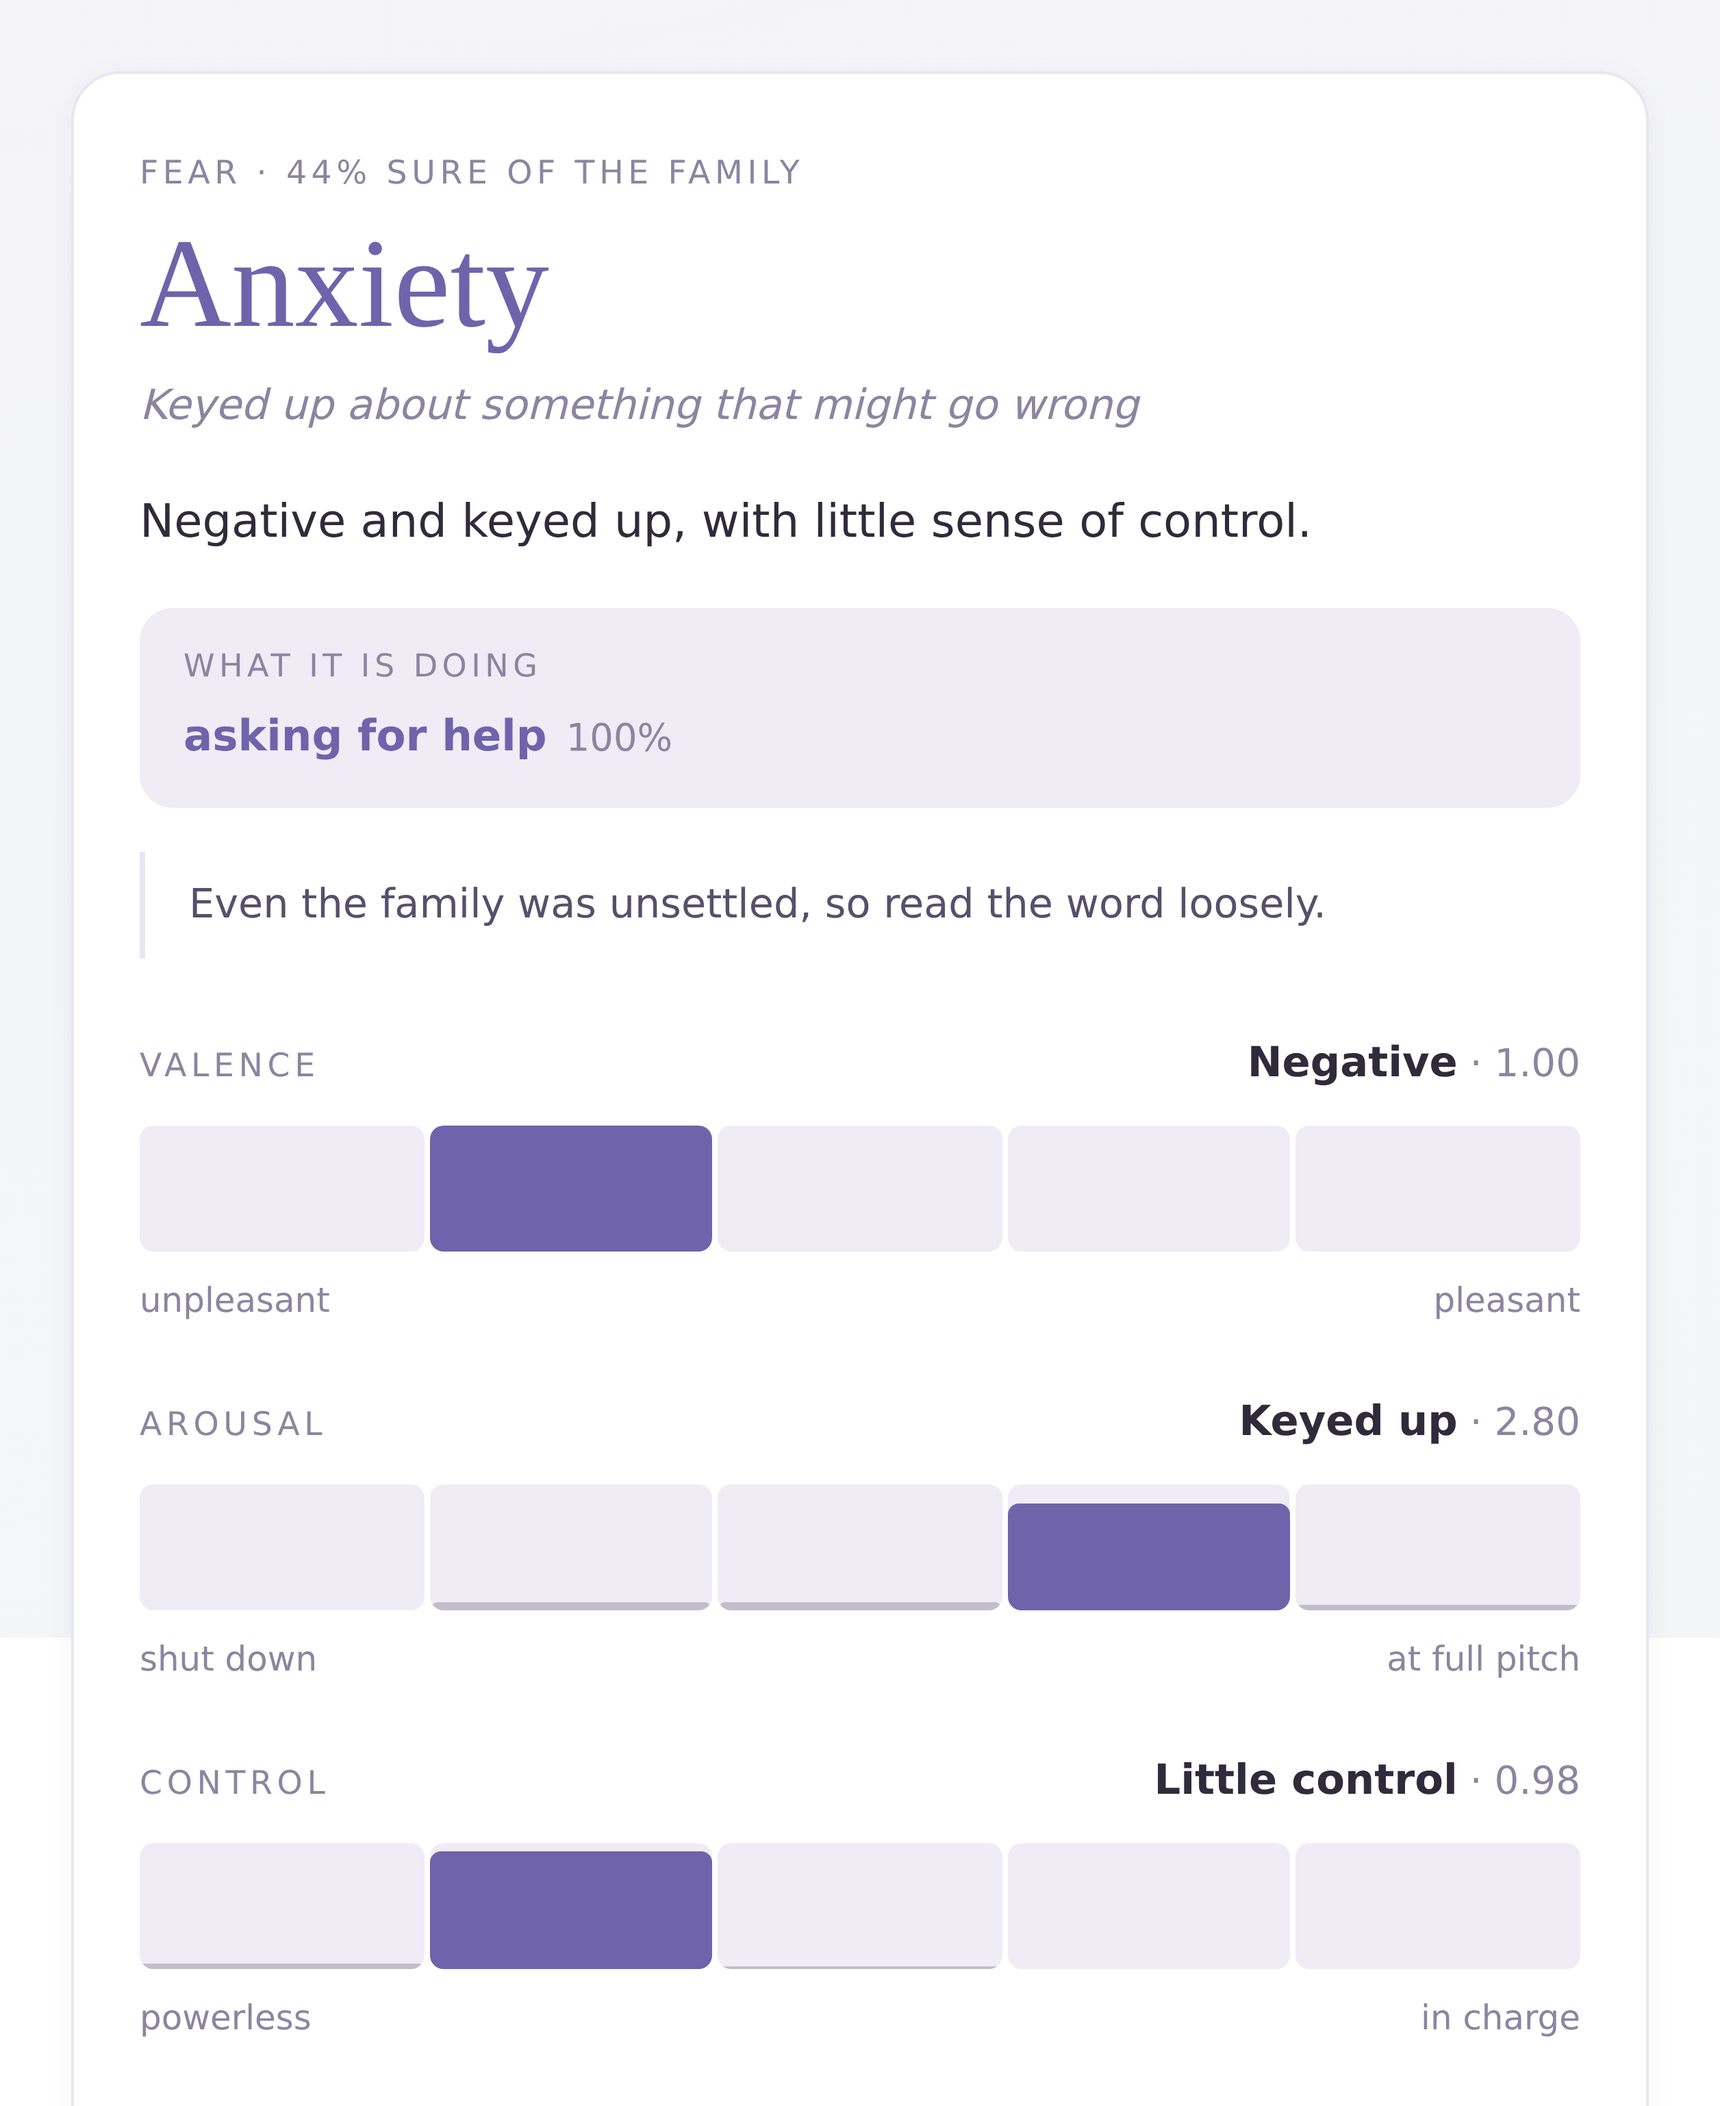
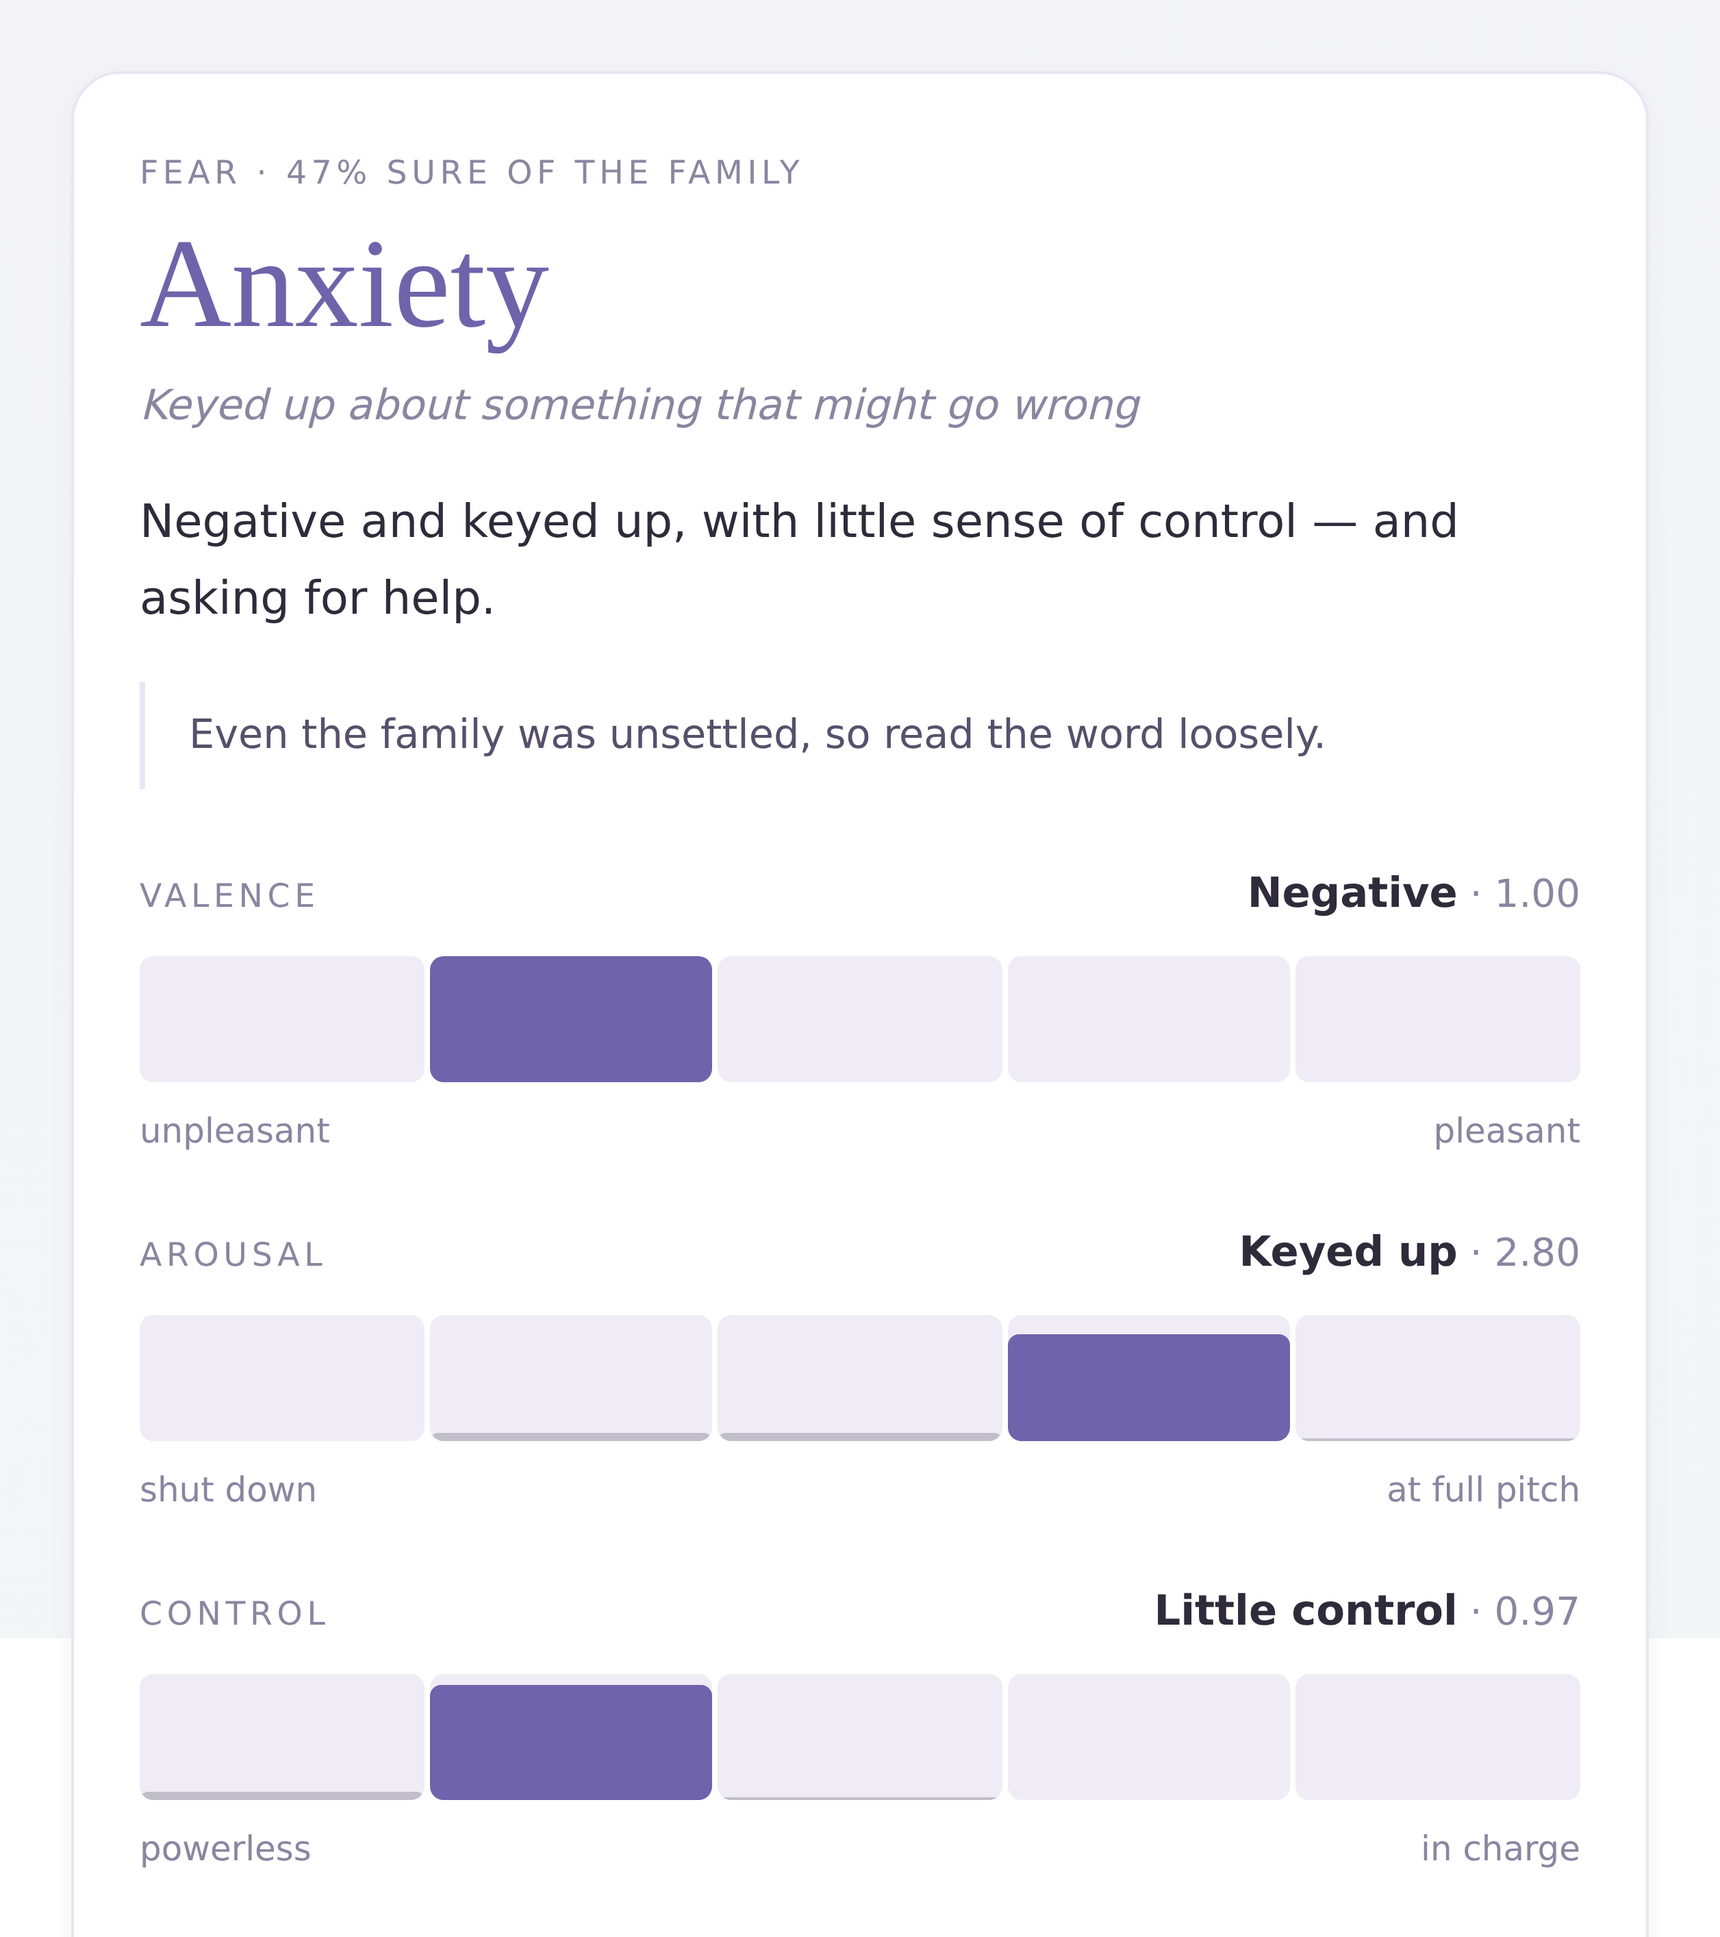
waif: drop the two footnote Nouls, and one description line instead of two
`ahead` and `restrained` are gone. Neither changed the word, the sentence or
a meter — each could only ever append one line — and a question whose whole
effect is an occasional footnote costs a reader more attention than it
returns. That leaves one Noul, the gate that decides whether there is
anything to read at all.

The intent no longer sits in its own block beside the axes' sentence, where
it read as a second verdict about the same text. It finishes that sentence:

  Negative and keyed up, with little sense of control — and asking for help.

So the reading is a word, a gloss, one line, and the meters. Seven questions
now, three jobs, and the table in "How it works" says which does which.

Stage one drops to ~1,250 input tokens from ~1,400.

Claude-Session: https://claude.ai/code/session_01Sa5169APZKZrqTZgz6NTVY

diff --git a/frontend/src/lib/waif.ts b/frontend/src/lib/waif.ts
@@ -119,45 +119,6 @@ export const INTENTS = {
 } as const;
 export type IntentId = keyof typeof INTENTS;
 
-/**
- * The two Nouls that survived a check on whether they were saying anything.
- *
- * Measured over the 24-text probe set: `mixed` — *is more than one feeling
- * present* — came back at or above 0.6 on twenty-one of twenty-four texts,
- * which is not a signal, it is a property of writing. It was cut, and the
- * thing it was reaching for is now read off the shade Choice's own spread: a
- * feeling that sits between two words shows up as a split distribution, which
- * is a better answer to the same question and costs nothing extra.
- *
- * These two both fired on some inputs and not others, and both change what a
- * reader should take from the reading.
- */
-const SIGNALS = {
-  ahead: {
-    instructions:
-      "The feeling in `text` is about something that has not happened yet, rather than about something that already has or is happening now.",
-    criteria: {
-      true: "Directed at what might come — a threat, a hope, an outcome still open",
-      false: "Directed at what has already happened or is happening now",
-    },
-    note: "It is about something that has not happened yet.",
-  },
-  restrained: {
-    instructions:
-      "The feeling in `text` is being held back or understated relative to what is actually being described.",
-    criteria: {
-      true: "The events described are far heavier than the way they are told",
-      false: "The telling matches the weight of what happened",
-    },
-    note: "And it is being held back — what is described is heavier than how it is said.",
-  },
-} as const;
-
-export type SignalId = keyof typeof SIGNALS;
-const SIGNAL_IDS = ["ahead", "restrained"] as const;
-
-/** A Noul at or above this reads as *present* for the purpose of the sentence. */
-const PRESENT = 0.6;
 /** Below this, nothing was said that could be read at all. */
 const IS_WRITING = 0.5;
 /** Below this, an axis did not settle and must not be stated as if it had. */
@@ -199,12 +160,6 @@ export const QUESTIONS = {
       (Object.keys(INTENTS) as IntentId[]).map((k) => [k, INTENTS[k].gloss]),
     ),
   },
-  ...Object.fromEntries(
-    SIGNAL_IDS.map((id) => [
-      id,
-      { type: "noul", instructions: SIGNALS[id].instructions, criteria: SIGNALS[id].criteria },
-    ]),
-  ),
 } as const;
 
 /** Stage two: which shade, given the family stage one chose. */
@@ -228,7 +183,7 @@ export const SPEC = {
     id,
     label: AXES[id].label,
     question: AXES[id].question,
-    role: "Describes the feeling and draws the meter. It does not pick the word.",
+    role: "Starts the sentence and draws the meter. It does not pick the word.",
     options: AXES[id].levels.map((text, i) => ({ key: String(i), text })),
   })),
   family: {
@@ -242,7 +197,7 @@ export const SPEC = {
     id: "intent",
     label: "Intent",
     question: QUESTIONS.intent.instructions,
-    role: "Reported on its own line. It never touches the feeling.",
+    role: "Finishes the sentence. It does not affect the word.",
     options: (Object.keys(INTENTS) as IntentId[]).map((k) => ({
       key: k,
       text: `${INTENTS[k].label} — ${INTENTS[k].gloss}`,
@@ -264,18 +219,6 @@ export const SPEC = {
       label: "Is this writing at all",
       question: QUESTIONS.is_writing.instructions,
       role: "A gate. Below 0.50 nothing is scored and the second call is never spent.",
-    },
-    {
-      id: "ahead",
-      label: "About something not yet happened",
-      question: SIGNALS.ahead.instructions,
-      role: "Adds one line to the reading when it passes 0.60. Nothing else.",
-    },
-    {
-      id: "restrained",
-      label: "Being held back",
-      question: SIGNALS.restrained.instructions,
-      role: "Adds one line to the reading when it passes 0.60. Nothing else.",
     },
   ],
 } as const;
@@ -314,7 +257,6 @@ export interface Reading {
   /** One speakable paragraph: the whole reading in a form that can be read aloud. */
   summary: string;
   axes: Record<AxisId, AxisReading>;
-  signals: Record<SignalId, number>;
   isWriting: number;
   /** Full distributions for the three Choices, so every option can be shown. */
   distributions: {
@@ -371,10 +313,6 @@ const ranked = (probabilities: Record<string, number>): Alternative[] =>
 export function interpret(stage1: any, shadeAnswer: any | null): Reading {
   const isWriting: number = stage1.is_writing?.noul ?? 0;
   const axes = readAxes(stage1);
-  const signals = Object.fromEntries(
-    SIGNAL_IDS.map((id) => [id, stage1[id]?.noul ?? 0]),
-  ) as Record<SignalId, number>;
-
   const familyId: string = stage1.family?.choice ?? "";
   const family = FAMILIES.find((f) => f.id === familyId);
   const familyConfidence: number = stage1.family?.confidence ?? 0;
@@ -398,7 +336,6 @@ export function interpret(stage1: any, shadeAnswer: any | null): Reading {
     notes: [],
     summary: "That did not read as something a person wrote, so it was not scored.",
     axes,
-    signals,
     isWriting,
     distributions: { family: {}, shade: {}, intent: {} },
   };
@@ -413,9 +350,12 @@ export function interpret(stage1: any, shadeAnswer: any | null): Reading {
   const shadeConfidence: number = shadeAnswer.confidence ?? 0;
   const alternatives = ranked(shadeAnswer.probabilities).filter((x) => x.word !== shadeWord);
 
+  // One line, not two. The axes say how it feels and the intent says what the
+  // writer is doing with it; as separate blocks they read as two verdicts about
+  // the same sentence, which is what they are not.
   const sentence =
     `${VALENCE_CLAUSE[axes.valence.level]} ${AROUSAL_CLAUSE[axes.arousal.level]}, ` +
-    `${CONTROL_CLAUSE[axes.control.level]}.`;
+    `${CONTROL_CLAUSE[axes.control.level]} — and ${intentMeta.label}.`;
 
   const notes: string[] = [];
 
@@ -431,9 +371,6 @@ export function interpret(stage1: any, shadeAnswer: any | null): Reading {
   if (familyConfidence < FAMILY_CLEAR) {
     notes.push(`Even the family was unsettled, so read the word loosely.`);
   }
-  for (const id of SIGNAL_IDS) {
-    if (signals[id] >= PRESENT) notes.push(SIGNALS[id].note);
-  }
   for (const id of AXIS_IDS) {
     if (!axes[id].unsure) continue;
     const order = axes[id].probabilities
@@ -448,12 +385,7 @@ export function interpret(stage1: any, shadeAnswer: any | null): Reading {
   }
 
   const intentP: number = intentProbs[intentId] ?? 0;
-  const summary = [
-    `${title(shadeWord)}.`,
-    sentence,
-    `What it is doing: ${intentMeta.label}.`,
-    ...notes,
-  ].join(" ");
+  const summary = [`${title(shadeWord)}.`, sentence, ...notes].join(" ");
 
   return {
     ok: true,
@@ -479,7 +411,6 @@ export function interpret(stage1: any, shadeAnswer: any | null): Reading {
     notes,
     summary,
     axes,
-    signals,
     isWriting,
     distributions: {
       family: stage1.family?.probabilities ?? {},

diff --git a/typesafe.md b/typesafe.md
@@ -46,7 +46,7 @@ State: `{ question }`. Four questions, one request.
 
 State: `{ text }`. **Two requests**, and the split between them is the design.
 
-**Stage one — eight questions, one request.**
+**Stage one — six questions, one request.**
 
 | id | Primitive | Answers |
 |---|---|---|
@@ -56,8 +56,6 @@ State: `{ text }`. **Two requests**, and the split between them is the design.
 | `family` | Choice, 11 options | Which family does the feeling belong to? |
 | `intent` | Choice, 8 options | What is the writer *doing* — the act, not the feeling? |
 | `is_writing` | Noul | Is this something a person actually wrote? |
-| `ahead` | Noul | Is the feeling about something that has not happened yet? |
-| `restrained` | Noul | Is the feeling held back relative to what is described? |
 
 **Stage two — one question**, asked only if the gate passes: a Choice over the
 chosen family's shades alone, 2–8 options depending on the family.
@@ -75,10 +73,19 @@ at the reader*) and `asking` (*is it asking for something*), which were fragment
 of one judgment. Speech acts are alternatives to each other, so "which one" is
 the right question — the mirror of why emotion words are not.
 
-**A Noul that was cut for saying nothing.** `mixed` (*is more than one feeling
-present*) returned ≥0.6 on **21 of 24** probe texts. That is a property of
-writing, not a signal. What it reached for is now read off the shade Choice's
-spread: a split distribution *is* "between two feelings", and costs nothing.
+**All three descriptive Nouls were cut, and only the gate survives.** `mixed`
+(*is more than one feeling present*) went first, on measurement: it returned
+≥0.6 on **21 of 24** probe texts, which is a property of writing rather than a
+signal — and what it reached for is read off the shade Choice's spread anyway,
+since a split distribution *is* "between two feelings". `ahead` and `restrained`
+followed on use: each could only ever append one line, neither changed the word,
+the sentence or a meter, and a question whose whole effect is an occasional
+footnote costs a reader more attention than it returns.
+
+**One description line, not two.** `intent` used to be reported in its own block
+beside the axes' sentence, which read as two verdicts about the same text. It now
+finishes that sentence — *"Negative and keyed up, with little sense of control —
+and asking for help."*
 
 **A control rubric must not contain an emotion word.** Level 1 once read
 *"Overwhelmed: struggling to keep any grip on it"*, which primed the model with a
@@ -125,7 +132,6 @@ every number as provisional.
 | Constant | Value | Basis |
 |---|---|---|
 | `IS_WRITING` | 0.50 | Real writing scored 0.96–0.98; keyboard mashing 0.08 |
-| `PRESENT` (Nouls) | 0.60 | Separates the signals that fired correctly from near-misses at 0.43–0.49 |
 | `SETTLED` (axis confidence) | 0.50 | Below it the weight is genuinely split; an ambiguous text measured 0.35 on valence while clean ones measured 0.76–0.98 |
 | `MARGIN` (top two levels) | 0.15 | Confidence is computed over the whole distribution, so a two-way split can clear `SETTLED` and still be a coin toss — one probe landed 52% against 47% on control and was reported flatly |
 | `SHADE_CLEAR` | 0.60 | Clean readings scored 0.79–1.00; a genuinely between-two-words text scored 0.20 |
@@ -143,7 +149,7 @@ every number as provisional.
 
 ## Measured cost
 
-`jev-1.13.0`, 2026-09-20. Stage one ~1,400 input tokens; stage two ~444. Input is
+`jev-1.13.0`, 2026-09-20. Stage one ~1,250 input tokens; stage two ~444. Input is
 dominated by rubrics and criteria, which are sent on every call regardless of how
 short the text is, so a one-line input costs almost exactly what a paragraph does.
 **A refusal costs one request, not two** — the gate is checked before stage two is
